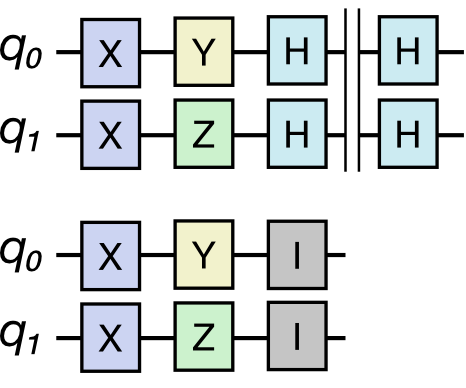
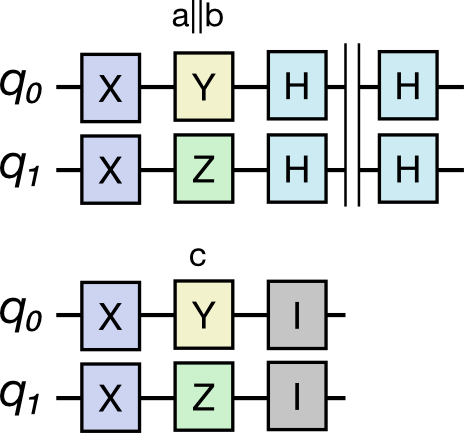
added graphics and changed images

diff --git a/report.tex b/report.tex
@@ -57,6 +57,8 @@
 \usepackage{amsmath}
 \usepackage{makecell}
 
+\usetikzlibrary{datavisualization}
+
 \renewcommand\theadalign{bc}
 \renewcommand\theadfont{\bfseries}
 
@@ -274,13 +276,13 @@ However, appending column circuits to a non-optimal circuit can't result in an o
 
 \begin{figure}
 	\includegraphics[width=0.4\columnwidth]{assets/approach.png}
-	\caption{suboptimal circuits can't lead to optimal results}
+	\caption{a can be replaced since its not optimal; c is equivalent to a||b}
 	\label{fig:approach}
 \end{figure}
 
 \begin{figure}
 	\includegraphics[width=0.4\columnwidth]{assets/approach-2.png}
-	\caption{optimal interim results can create suboptimal end results}
+	\caption{a and b are optimal but a||b is not; see c as optimal solution}
 	\label{fig:approach}
 \end{figure}
 
@@ -346,7 +348,42 @@ The size of the final database also greatly decreased since only optimal circuit
 \subsubsection{Implementation}
 We've implemented a small prototype with the proposed algorithm from above in python based on the Qiskit and Numpy frameworks. 
 The resulting software includes both the original database generation algorithm from Quanto and our pruning approach. 
-We decided to exclude the optimization part since this part doesn't differ in comparison to the original program and would have gone beyond the scope.
+We decided to exclude the optimization part since this part doesn't differ in comparison to the original program and would have gone beyond the scope.\\
+
+\begin{figure}
+\begin{tikzpicture}[]
+	\datavisualization [
+		scientific axes,
+    		x axis={label={depth iteration}, attribute=depth, length=3cm, ticks=few},
+   		y axis={label={number of circuits}, attribute=circuits, scaling=0 at 0cm and 15000 at 6cm},
+    		visualize as line/.list={quanto, pruned},
+		pruned={style=red, label in legend={text={pruning approach}}},
+ 		quanto={style=blue, label in legend={text={Quanto's approach}}}]
+	
+	 data [set=pruned] {
+		depth, circuits
+		1, 11
+		2, 42
+		3, 139
+		4, 337
+		5, 526
+		6, 585
+		7, 479
+		8, 248
+		9, 75
+	}
+	
+	data [set=quanto] {
+		depth, circuits
+		1, 11
+		2, 121
+		3, 1331
+		4, 14641
+	};
+\end{tikzpicture}
+\caption{comparison of both database generation algorithms}
+\label{fig:comp}
+\end{figure}
 
 %-------------------------------------------------------------------------------
 \bibliographystyle{plain}
